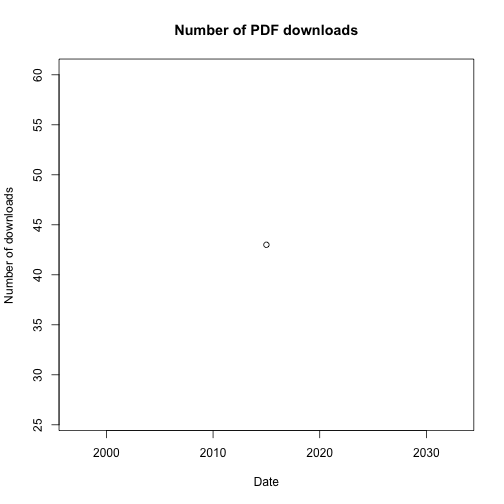
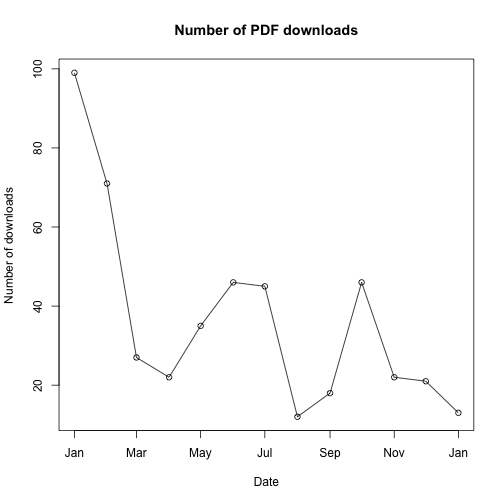
updated readme again

diff --git a/README.md b/README.md
@@ -18,54 +18,66 @@ The search functionality comes from the general search form interface, so the se
 
 
 ```r
-bxCC <- bx_search("climate change",limit = 10)
-summary(bxCC)
+bxEco <- bx_search("Ecology",limit = 10)
+summary(bxEco)
 ```
 
 ```
-## Search term: climate change 
+## Search term: Ecology 
 ## Number of results returned: 10 
-## Number of results found: 236
+## Number of results found: 110
 ```
 
 This will return a search results object that has the URL's for your search results.  If you want to get details about all your search results we can extract basic features like DOI, Authors, e-mails, title, abstract text, date as well as metrics on views and downloads.
 
 
 ```r
-bxCCDetails <-  bx_extract(bxCC)
+bxEcoDetails <-  bx_extract(bxEco)
 
-bxCCDetails[[3]]
+bxEcoDetails[[1]]
 ```
 
 ```
 ## $authors
 ## $authors$names
-## [1] "Ben Phillips"
-## 
-## $authors$email
-## [1] "phillipsb@unimelb.edu.au"
+## [1] "Stefan Siebert"          "Freya E. Goetz"         
+## [3] "Samuel H. Church"        "Pathikrit Bhattacharyya"
+## [5] "Felipe Zapata"           "Steven H.D. Haddock"    
+## [7] "Casey W. Dunn"          
 ## 
 ## 
 ## $paper
 ## $paper$title
-## [1] "Evolutionary processes make invasion speed difficult to predict"
+## [1] "Stem cells in a colonial animal with localized growth zones"
 ## 
 ## $paper$abstract
-## [1] "A capacity to predict the spread rate of populations is critical for understanding the impacts of climate change and invasive species. Despite sophisticated theory describing how populations spread, the prediction of spread rate remains a formidable challenge. As well as the inherent stochasticity in the spread process, spreading populations are subject to strong evolutionary forces (operating on dispersal and reproductive rates) that can cause accelerating spread. Despite these strong evolutionary forces, serial founder events and drift on the expanding range edge mean that evolutionary trajectories in the invasion vanguard may be highly stochastic. Here I develop a model of spatial spread in continuous space that incorporates evolution of continuous traits under a quantitative genetic model of inheritance. I use this model to investigate the potential role of evolution on the variation in spread rate between replicate model realisations. Models incorporating evolution exhibited more than four times the variance in spread rate across replicate invasions compared with non-evolving scenarios. Results suggest that the majority of this increase in variation is driven by evolutionary stochasticity on the invasion front rather than initial founder events: in many cases evolutionary stochasticity on the invasion front contributed more than 90% of the variance in spread rate over 30 generations. Our uncertainty around predicted spread rates -- whether for invasive species or those shifting under climate change -- may be much larger than we expect when the spreading population contains heritable variation in rates of dispersal and reproduction."
+## [1] "Siphonophores (Hydrozoa) have unparalleled colony-level complexity, precision of organization, and functional specialization between zooids (i.e., the units that make up colonies). Previous work has shown that, unlike other colonial animals, most growth in siphonophores is restricted to one or two well-defined growth zones that are the sites of both elongation and zooid budding. To understand this unique growth at the cellular level, we characterize the distribution of interstitial stem cells (i-cells) in the siphonophore Nanomia bijuga. Within the colony we find that i-cells are present at the tips of the growth zones, at well-defined sites where new zooid buds will arise, and in the youngest zooid buds. As each zooid matures, i-cells become progressively restricted to specific regions until they are mostly absent from the oldest zooids. We find no evidence of the migratory i-cells that have been observed in colonial cnidarian relatives. The restriction of i-cells to particular developing structures and sites of growth suggest a plant-like model of growth for siphonophores, where the growth zones function much like meristems. This spatial restriction of stem cells could also explain the precision of colony-level organization in siphonophores as a consequence of restricted growth potential."
 ## 
 ## $paper$date
-## [1] "2015-01-11"
+## [1] "2014-01-06"
 ## 
 ## $paper$DOI
-## [1] "10.1101/013680"
+## [1] "10.1101/001685"
 ## 
 ## $paper$fulltext_url
-## [1] "http://www.biorxiv.org/content/biorxiv/early/2015/01/11/013680.full.pdf"
+## [1] "http://www.biorxiv.org/content/biorxiv/early/2014/01/06/001685.full.pdf"
 ## 
 ## 
 ## $metrics
-##         date Abstract PDF
-## 1 2015-01-01      230  43
+##          date Abstract PDF
+## 1  2014-01-01      202  99
+## 2  2014-02-01      250  71
+## 3  2014-03-01       39  27
+## 4  2014-04-01       70  22
+## 5  2014-05-01       79  35
+## 6  2014-06-01       46  46
+## 7  2014-07-01       69  45
+## 8  2014-08-01       35  12
+## 9  2014-09-01       62  18
+## 10 2014-10-01       56  46
+## 11 2014-11-01       61  22
+## 12 2014-12-01       57  21
+## 13 2015-01-01       38  13
 ## 
 ## attr(,"class")
 ## [1] "biorxiv_paper"
@@ -76,7 +88,7 @@ There's also some basic plotting functionality that will allow you plot views an
 Plot views
 
 ```r
-plot(bxCCDetails[[3]],type="abs")
+plot(bxEcoDetails[[1]],type="abs")
 ```
 
 ![plot of chunk plotting views](figure/plotting views-1.png) 
@@ -84,7 +96,7 @@ plot(bxCCDetails[[3]],type="abs")
 Plot downloads
 
 ```r
-plot(bxCCDetails[[3]],type="dl")
+plot(bxEcoDetails[[1]],type="dl")
 ```
 
 ![plot of chunk plotting dl](figure/plotting dl-1.png) 
@@ -93,7 +105,7 @@ Finally, you can easily download PDF's from all your search results.
 
 
 ```r
-bx_download(bxCC,"~/biorxiv_pdfs")
+bx_download(bxEco,"~/biorxiv_pdfs")
 ```
 
 
